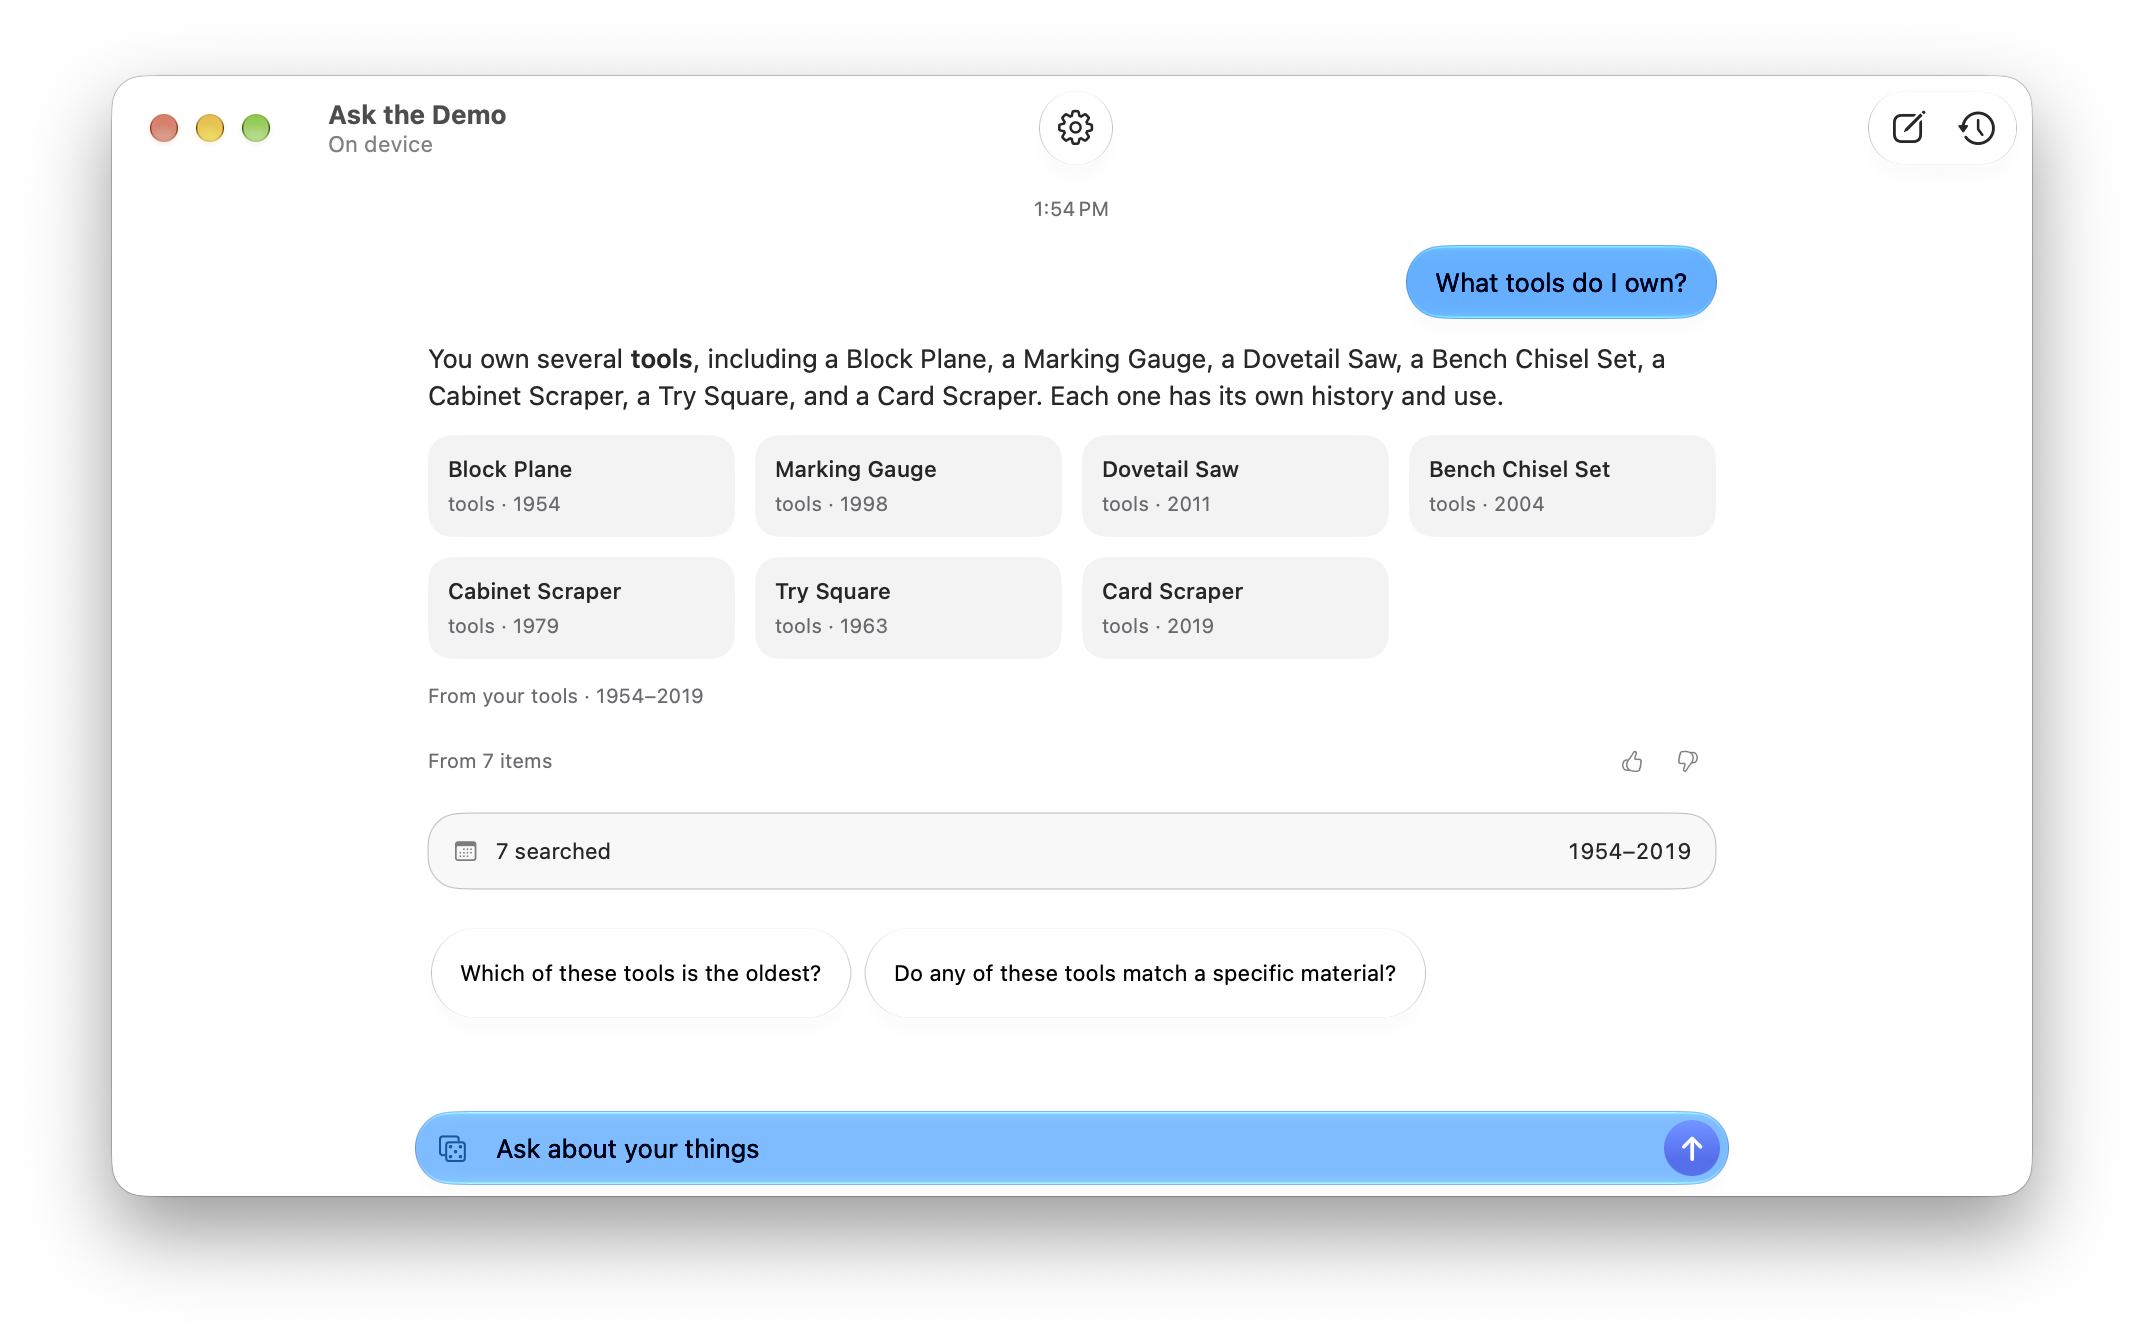
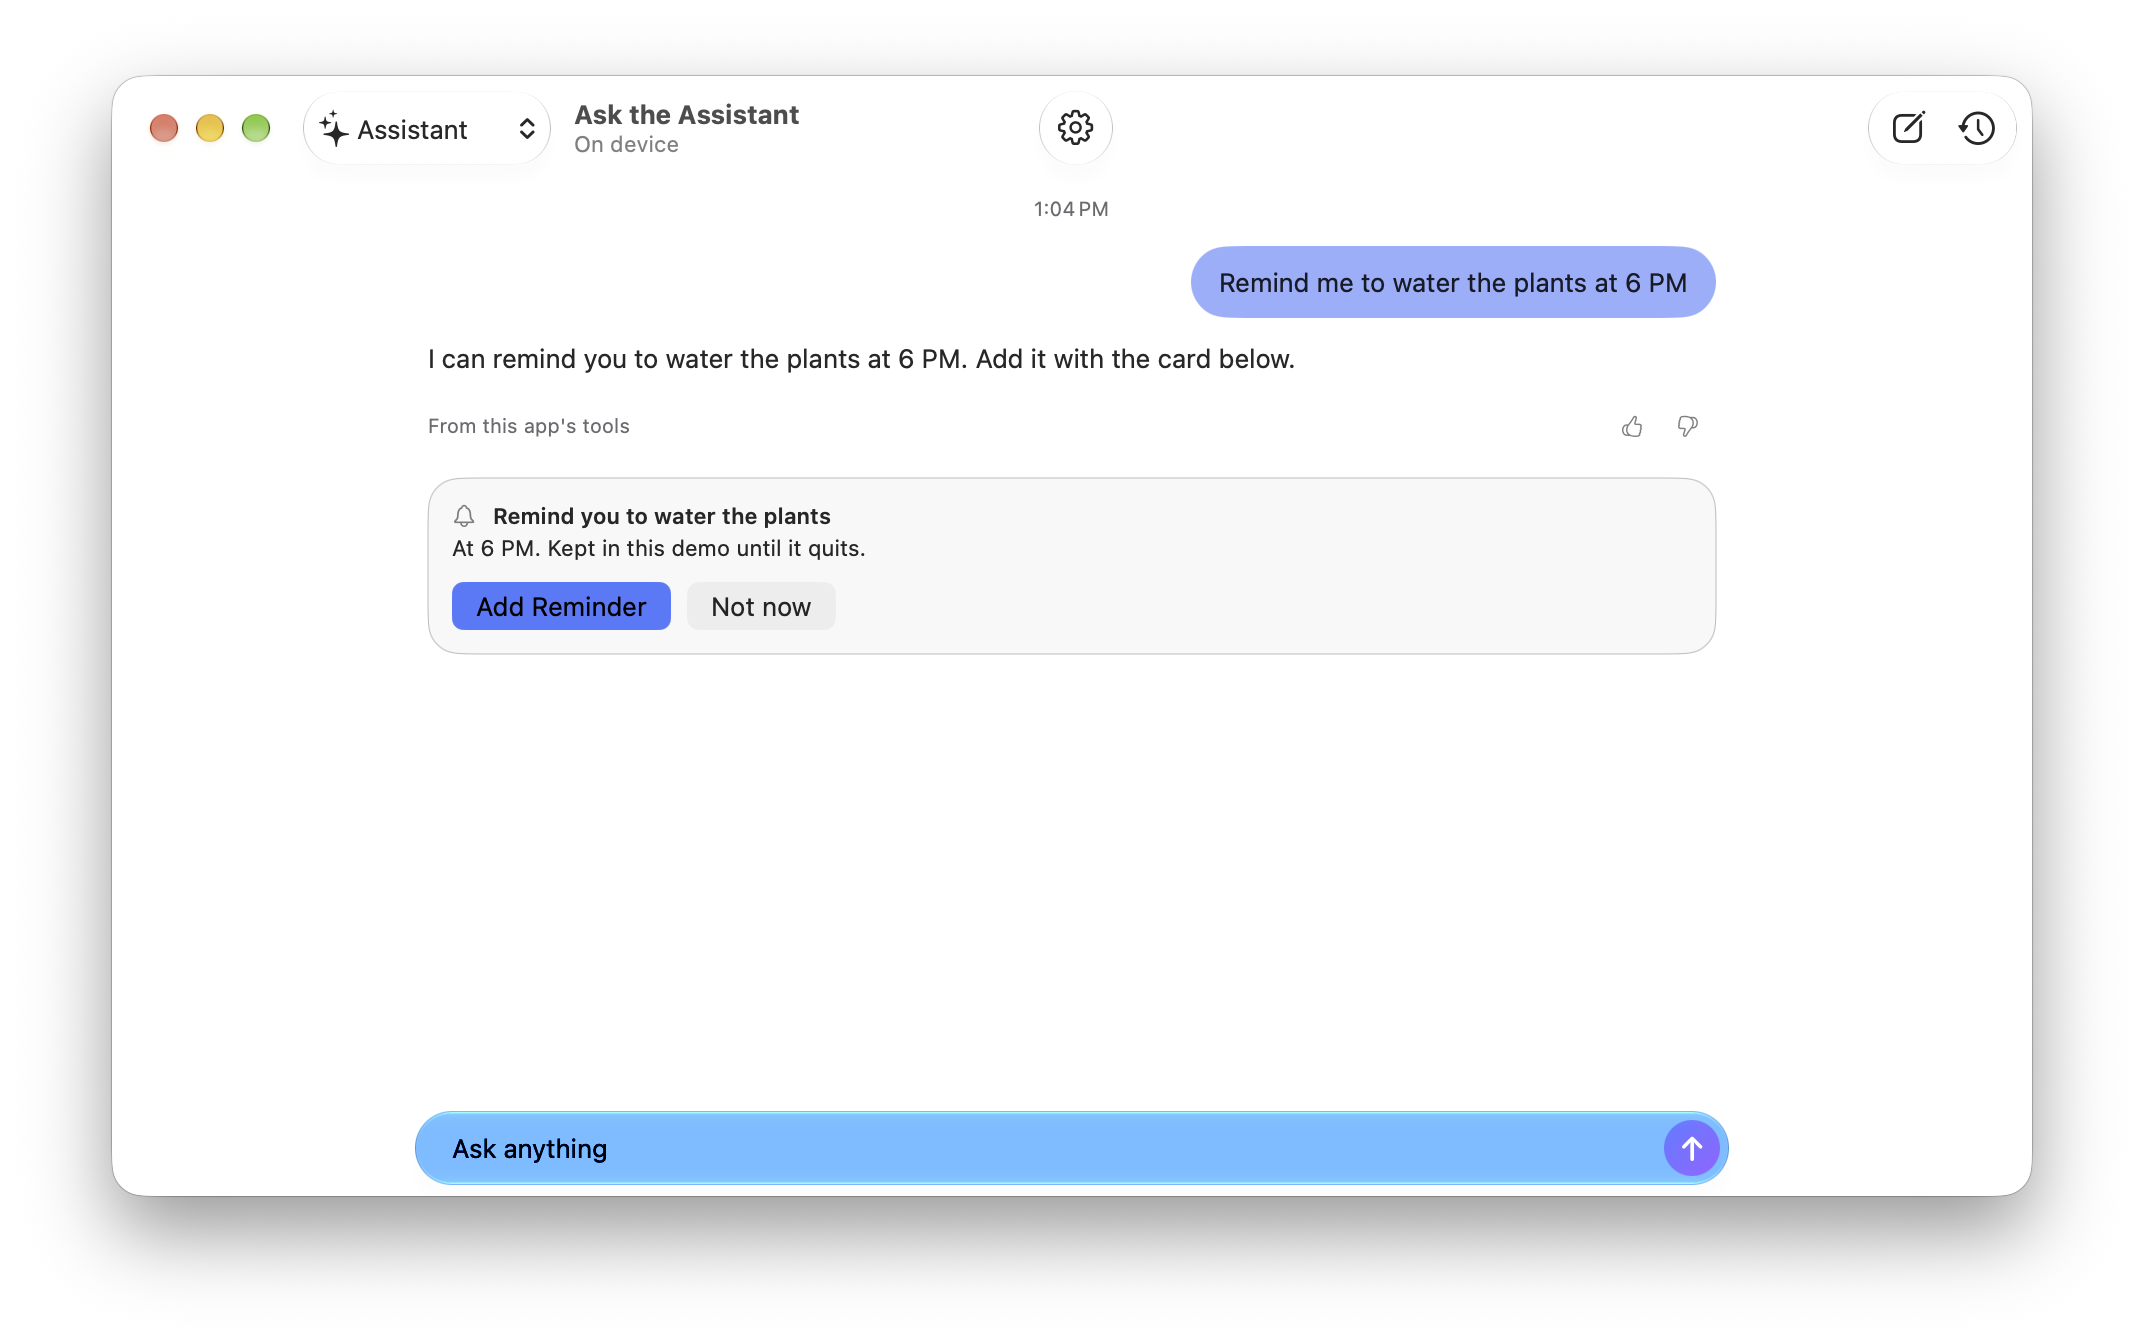
README's Mac image is retaken on the assistant, with the reminder card (#65)
The README's Mac image now shows the demo's assistant rather than the
library, so the three images between them show both domains and the
switch: the toolbar's Assistant pop-up at the leading edge, the question
"Remind me to water the plants at 6 PM", the answer, the evidence line
"From this app's tools", and the reminder's card with Add Reminder and
Not now, not yet confirmed. The one-line composer is at the foot.

- `docs/images/mac.png`: a 960x560 window, light, blue accent, written
through `/dev/fd/4` after 8.5 seconds. It is 2144x1344, the same size as
before, so the README's `width="38%"` still gives the three images equal
heights. The window drew active (no "kept the front" line in the
capture's log; an inactive one comes out 2012x1212). No tip and no caret
show.
- The answer is `-askScriptedAnswer`'s. The on-device model answered the
same starter twice on this Mac without calling the reminder tool ("Not
from this app's data", no card), so a live answer couldn't show the
card.
- `README.md`: mac.png's alt text describes the new image.
- `docs/DEMO-PROJECT.md`: "Imaging the Mac window" described one launch,
"which the thread fills", which no longer makes this image. It now gives
the two launches that did: one asks the starter with every chat
forgotten and the thread kept, the second reads the turn back and images
it. It also notes what got in the way: the app can't take the front from
the terminal on its own (`open` on the running app brings it forward,
[…]

diff --git a/docs/DEMO-PROJECT.md b/docs/DEMO-PROJECT.md
@@ -112,16 +112,46 @@ window in front the window draws as inactive, and the capture logs which app kep
 | `-askCaptureAfter <seconds>` | How long the window settles before it is written: 8 seconds by default. |
 | `-askCaptureSize <W>x<H>` | The window's content size: 1280x800 by default. The PNG is at the display's scale. |
 
-The README's `docs/images/mac.png` is a 960x560 window, which the thread fills, written after 8.5
-seconds, which lands between blinks of the composer's caret. The first two arguments draw it light and
-with the blue accent whatever the Mac's own settings are. Each `-key value` pair goes before any bare
-flag, since AppKit pairs a `-`-prefixed argument with the next one:
+The README's `docs/images/mac.png` is the assistant in a 960x560 window: its starter "Remind me to
+water the plants at 6 PM" answered under `-askScriptedAnswer`, with the reminder's card not yet
+confirmed. The on-device model, asked it on the Mac, answered without proposing the reminder. The turn
+is asked in one launch and imaged in a second, which reads the thread back: a card whose yes was never
+given comes back with its buttons. The first two arguments draw the window light and with the blue
+accent whatever the Mac's own settings are. Each `-key value` pair goes before any bare flag, since
+AppKit pairs a `-`-prefixed argument with the next one.
 
-```sh
-caffeinate -dimsu AskKitDemo.app/Contents/MacOS/AskKitDemo \
-  -NSRequiresAquaSystemAppearance YES -AppleAccentColor 4 \
-  -askCaptureWindow /dev/fd/4 -askCaptureAfter 8.5 -askCaptureSize 960x560 4>mac.png
-```
+1. Launch with every chat forgotten and the thread kept, written late enough for the answer:
+
+   ```sh
+   caffeinate -dimsu AskKitDemo.app/Contents/MacOS/AskKitDemo \
+     -NSRequiresAquaSystemAppearance YES -AppleAccentColor 4 \
+     -askCaptureWindow /dev/fd/4 -askCaptureAfter 20 -askCaptureSize 960x560 \
+     -askHidesTips -askAssistant -askFreshHistory -askScriptedAnswer 4>first.png &
+   ```
+
+2. Two or three seconds in, bring the window to the front with `open AskKitDemo.app`. The app asks for
+   the front itself, but activation is cooperative and the terminal keeps it, so the window would draw
+   as inactive. Run `open` only while the app is up: once it has quit, `open` starts another copy, with
+   no arguments.
+3. Activate the starter. A Return posted to the window doesn't reach the composer's `onKeyPress`, and
+   the Send menu item reports itself disabled, so post a click instead, from lldb
+   (`xcrun lldb -p <pid> --batch -o '…' -o detach`): a left mouse down and up
+   (`NSEvent mouseEventWithType:` 1, then 2) at the starter, (586, 234) in the window's coordinates,
+   sent to the key window with `-[NSApplication postEvent:atStart:]`.
+4. Launch again without `-askFreshHistory`, and bring the window to the front as before. The turn read
+   back is written after 8.5 seconds, which lands between blinks of the composer's caret:
+
+   ```sh
+   caffeinate -dimsu AskKitDemo.app/Contents/MacOS/AskKitDemo \
+     -NSRequiresAquaSystemAppearance YES -AppleAccentColor 4 \
+     -askCaptureWindow /dev/fd/4 -askCaptureAfter 8.5 -askCaptureSize 960x560 \
+     -askHidesTips -askAssistant -askScriptedAnswer 4>mac.png
+   ```
+
+   On a 2x display an active window comes out 2144x1344; an inactive one is smaller, its shadow
+   shorter.
+5. Forget the chat with one more launch under `-askFreshHistory -askResetThread`, given
+   `-askCaptureWindow /dev/fd/4 -askCaptureAfter 2` and `4>/dev/null` so it quits.
 
 ## Imaging the iPhone screen
 

diff --git a/README.md b/README.md
@@ -14,7 +14,7 @@
 
 <p align="center">
   <img src="docs/images/iphone.png" width="12%" alt="The Ask screen on iPhone, the settings button and the switch between the demo's two domains at the bar's leading end: the question &quot;What tools do I own?&quot; answered in three sentences, with seven tiles of the tools it read, an evidence line reading &quot;From 7 items&quot;, two follow-up suggestions and the one-line composer at the bottom">
-  <img src="docs/images/mac.png" width="38%" alt="The Ask screen in a Mac window: the question &quot;What tools do I own?&quot; answered with seven tiles of tools, an evidence line, two follow-up suggestions and the composer">
+  <img src="docs/images/mac.png" width="38%" alt="The demo's assistant in a Mac window, the toolbar's Assistant pop-up, which switches between the demo's two domains, at its leading end: the question &quot;Remind me to water the plants at 6 PM&quot; answered in two sentences, an evidence line reading &quot;From this app's tools&quot;, a card proposing a reminder to water the plants at 6 PM with its Add Reminder and Not now buttons, and the one-line composer">
   <img src="docs/images/vision.png" width="33%" alt="The Ask screen in an Apple Vision Pro window, under the title's pill, whose menu switches between the demo's two domains: the question &quot;What clothes do I own?&quot; answered in a sentence naming seven clothes, with their seven tiles, an evidence line reading &quot;From 7 items&quot;, two follow-up suggestions and the one-line composer">
 </p>
 
